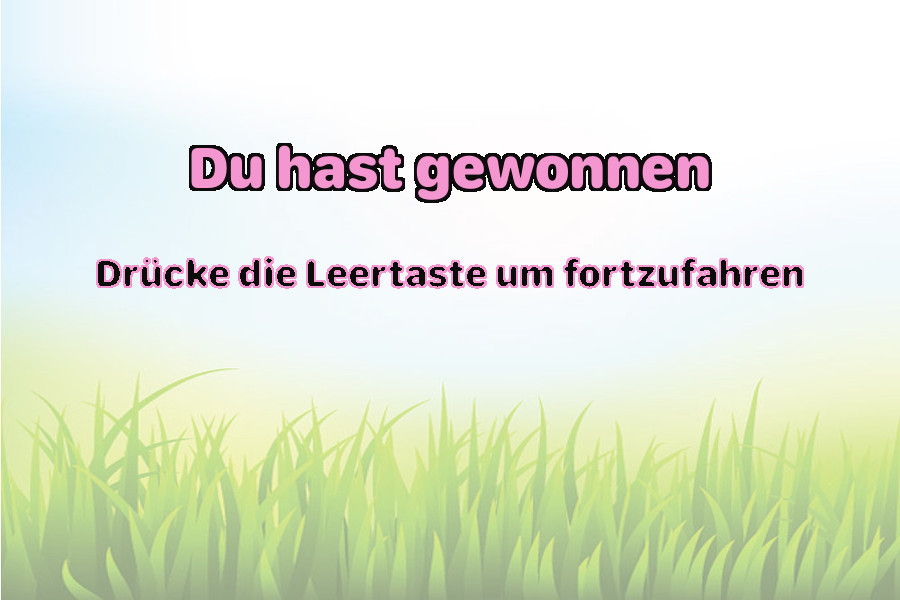
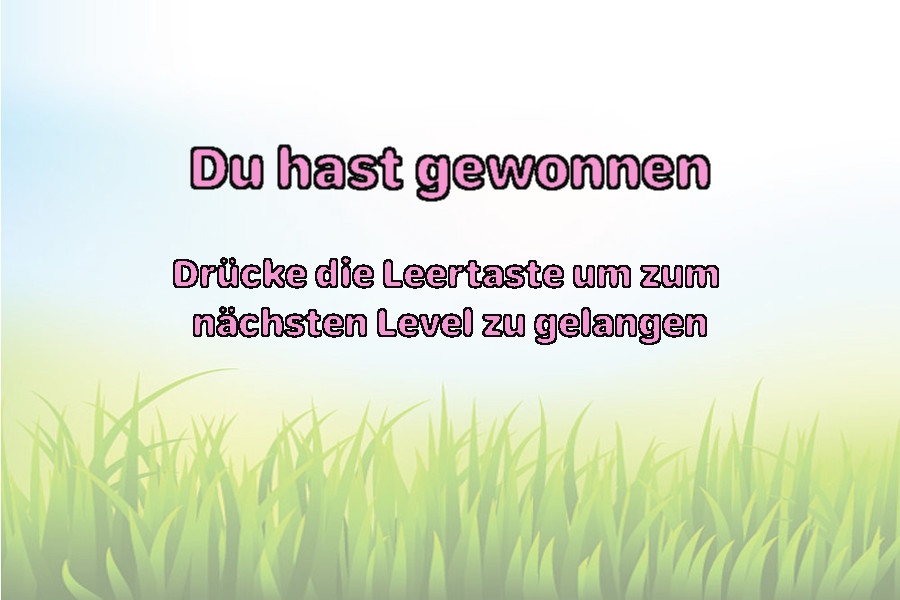
Background_win.jpeg, Level2.txt und 13 weitere dateien aktualisiert...

Changed region(s): [[0.1867, 0.24, 0.8089, 0.36], [0.0933, 0.42, 0.9022, 0.48], [0.2178, 0.51, 0.8089, 0.57]]

diff --git a/main.py b/main.py
@@ -17,9 +17,9 @@ pygame.display.set_caption("Mon jeu")
 #
 #dietext = fontdie.render('Du bist gestorben', True, (255, 255, 255)) #True heisst ecken abgerundet
 #wintext = fontwin.render('Du hast gewonnen!!', True, (255, 0, 0))
-
-p1 = player.Player(800, 532, 38, 38, "barbapapa.png", fenster, "p1") #importiert die class Player aus der datei player
-p2 = player.Player(500, 522, 28, 48, "barbamama.gif", fenster, "p2")# width und height 2 weniger da border width von rect = 2 und diese geht nach außen (s.u.) --> für hitbox
+positionplayer = [800, 520, 500, 520]
+p1 = player.Player(positionplayer[0], positionplayer[1], 26, 50, "barbapapa.png", fenster, "p1") #importiert die class Player aus der datei player
+p2 = player.Player(positionplayer[2], positionplayer[3], 26, 50, "barbamama.png", fenster, "p2")# width und height 2 weniger da border width von rect = 2 und diese geht nach außen (s.u.) --> für hitbox
 
 bg = pygame.image.load("Background.jpeg")
 bgdie = pygame.image.load("Background_die.jpeg")
@@ -54,9 +54,17 @@ while run: #mainloop der alles mögliche zu jeder Zeit checkt
 	p2.draw()
 	levelact.draw_foreground()
 	if levelact.leveldeath:
-		fenster.blit(bgdie, (0, 0))
+		while not allkeys[pygame.K_SPACE]:
+			fenster.blit(bgdie, (0, 0))
+		levelact.leveldeath = False
+		positionplayer = [800, 520, 500, 520]
 	elif p1.zielstate and p2.zielstate:
-		fenster.blit(bgwin, (0, 0))
+		while not allkeys[pygame.K_SPACE]:
+			fenster.blit(bgwin, (0, 0))
+		p1.zielstate = False
+		p2.zielstate = False
+		levelnumber = levelnumber + 1
+		positionplayer = [800, 520, 500, 520]
 	pygame.display.update()
 	
 pygame.quit()

diff --git a/level.py b/level.py
@@ -10,7 +10,10 @@ class Level:
 		self.leveldeath = False
 		self.levelfeld_background = []
 		self.levelfeld_foreground = []
-		level = open("Level/Level"+ str(levelnumber) + ".txt")
+		try:
+			level = open("Level/Level"+ str(levelnumber) + ".txt")
+		except FileNotFoundError:
+			self.levelnumber = self.levelnumber - 1
 		y = 0
 		for line in level: 
 			x = 0

diff --git a/block.py b/block.py
@@ -55,6 +55,7 @@ class Ziel(Block):
 	def __init__(self, fenster, x, y, bildsource):
 		super().__init__(fenster, x, y, bildsource)
 		self.height = 60
+		self.width = 30 #damit beim in die Tür reinlaufen man wirklich in der Mitte stehen muss
 	
 	def wins(self, currentplayer):
 		return False
